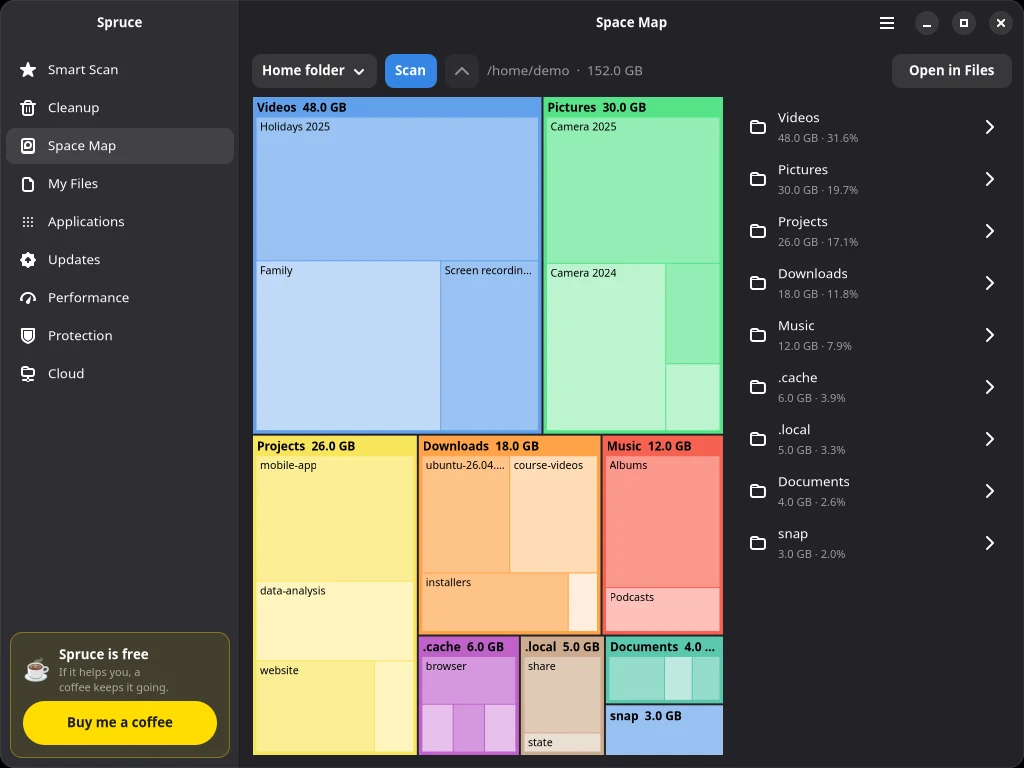
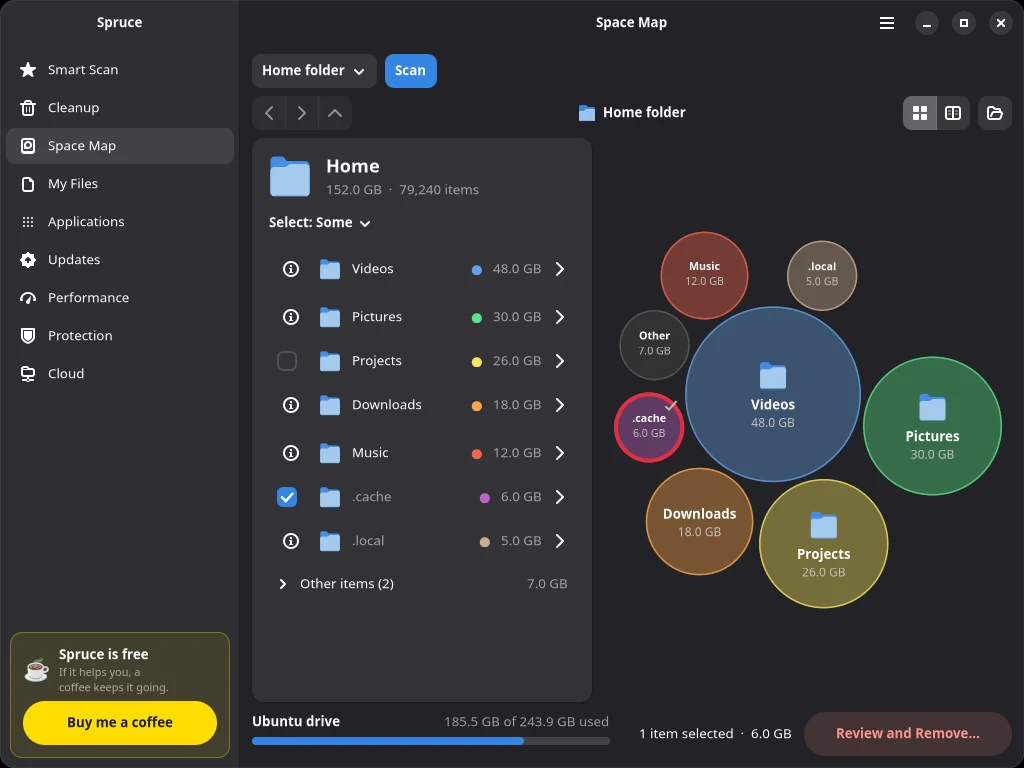
Spruce 0.8.0: the new Space Map

diff --git a/apps/spruce.html b/apps/spruce.html
@@ -27,7 +27,7 @@
     "description": "A free, open-source GNOME app that keeps Ubuntu clean, fast and safe: junk cleanup, a disk-space map, duplicates and similar photos, a complete uninstaller, all updates in one place, performance and security checks.",
     "applicationCategory": "UtilitiesApplication",
     "operatingSystem": "Ubuntu 24.04 or newer",
-    "softwareVersion": "0.7.1",
+    "softwareVersion": "0.8.0",
     "license": "https://www.gnu.org/licenses/gpl-3.0.html",
     "url": "https://pahalsoft.com/apps/spruce",
     "downloadUrl": "https://github.com/PahalSoft/spruce/releases/latest",
@@ -150,10 +150,11 @@
         <div class="mmw-feature">
           <span class="sp-feature-num">03</span>
           <h5>Space Map</h5>
-          <p class="text-muted mb-0">A clickable map of your home folder, the whole drive, or any folder you choose.</p>
+          <p class="text-muted mb-0">See what fills your home folder, the whole drive, or any folder you choose, and clear it out.</p>
           <ul>
-            <li>Big folders are big tiles — click one to look inside</li>
-            <li>Stays on one drive and groups small files, so even huge folders stay readable</li>
+            <li>The biggest items as bubbles — click a folder to look inside, then go back and forward</li>
+            <li>Tick what you don't need and review it before it goes to the Trash</li>
+            <li>Standard folders, app settings and keys are protected</li>
           </ul>
         </div>
         <div class="mmw-feature">
@@ -242,9 +243,9 @@
         </figure>
         <figure class="m-0">
           <a class="sp-window" href="../assets/spruce/space-map.webp" target="_blank" rel="noopener">
-            <img src="../assets/spruce/space-map.webp" width="1024" height="768" loading="lazy" alt="Spruce Space Map treemap of an example home folder">
+            <img src="../assets/spruce/space-map.webp" width="1024" height="768" loading="lazy" alt="Spruce Space Map: an example home folder as bubbles, with a checklist of its biggest items">
           </a>
-          <figcaption>Space Map — click a tile to look inside</figcaption>
+          <figcaption>Space Map — tick what you don't need, review, remove</figcaption>
         </figure>
         <figure class="m-0">
           <a class="sp-window" href="../assets/spruce/duplicates.webp" target="_blank" rel="noopener">
